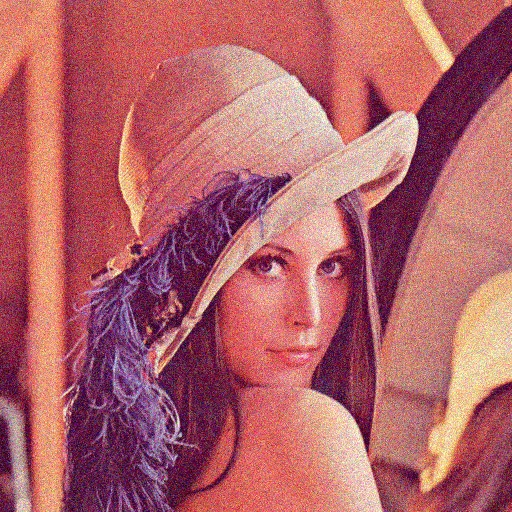
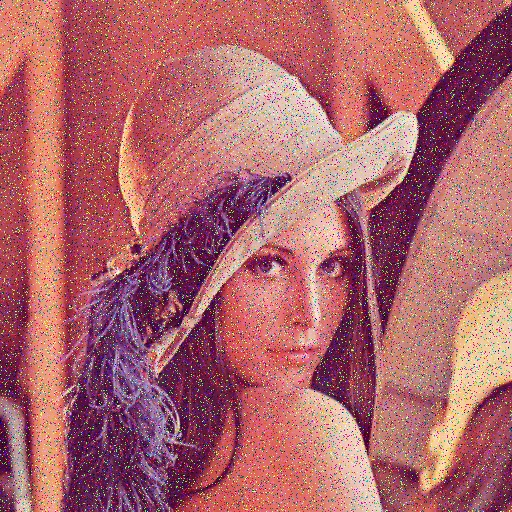
report

diff --git a/README.md b/README.md
@@ -14,16 +14,30 @@
 ## - convert back to RGB color-space from YCrCb.
 ## - press calculate equalize histogram button, to show histogram of equalized image.
 ![](screen_shots/image_2.png)
-## 4. insert the kernal size that is used for sobel detection
+## 4. move to "sobel and laplacian" tab.
+## 5. insert the kernal size that is used for sobel detection
 ![](screen_shots/image_3.png)
-## 5. press sobel button, the pop window will show for you, you can choose from the combo box the direction that you want to calculate sobel in it ( X or Y or XY).
+## 6. press sobel button, the pop window will show for you, you can choose from the combo box the direction that you want to calculate sobel in it ( X or Y or XY).
 ![](screen_shots/image_4.png)
 ![](screen_shots/image_5.png)
 ![](screen_shots/image_6.png)
 ![](screen_shots/image_7.png)
-## 6. if you change the kernal size to 3.
+## 7. if you change the kernal size to 3.
 ![](screen_shots/image_8.png)
 ![](screen_shots/image_9.png)
 ![](screen_shots/image_10.png)
-## 7. press the laplacian button, also the pop window will show for you with calculated laplace edge detection for the image.
+## 8. press the laplacian button, also the pop window will show for you with calculated laplace edge detection for the image.
 ![](screen_shots/image_11.png)
+## 9. move to "fourier, add noise and remove it" tab.
+![](screen_shots/image_12.png)
+## 10. choose from the combo box which type from noise that you want to add and then once you choose the type, the noisy image will be displayed with its fourier for you.
+## - gaussian noise:
+![](screen_shots/image_13.png)
+## - choose gaussian filter from "remove noise combo box", the filtered image and its fourier will be displayed for you.
+![](screen_shots/image_14.png)
+![](screen_shots/image_15.png)
+## - salt and paper noise: you should choose the amount of salt and paper that yoy want to be added.
+![](screen_shots/image_16.png)
+![](screen_shots/image_17.png)
+## - choose median filter from "remove noise combo box", the filtered image and its fourier will be displayed for you.
+![](screen_shots/image_18.png)
